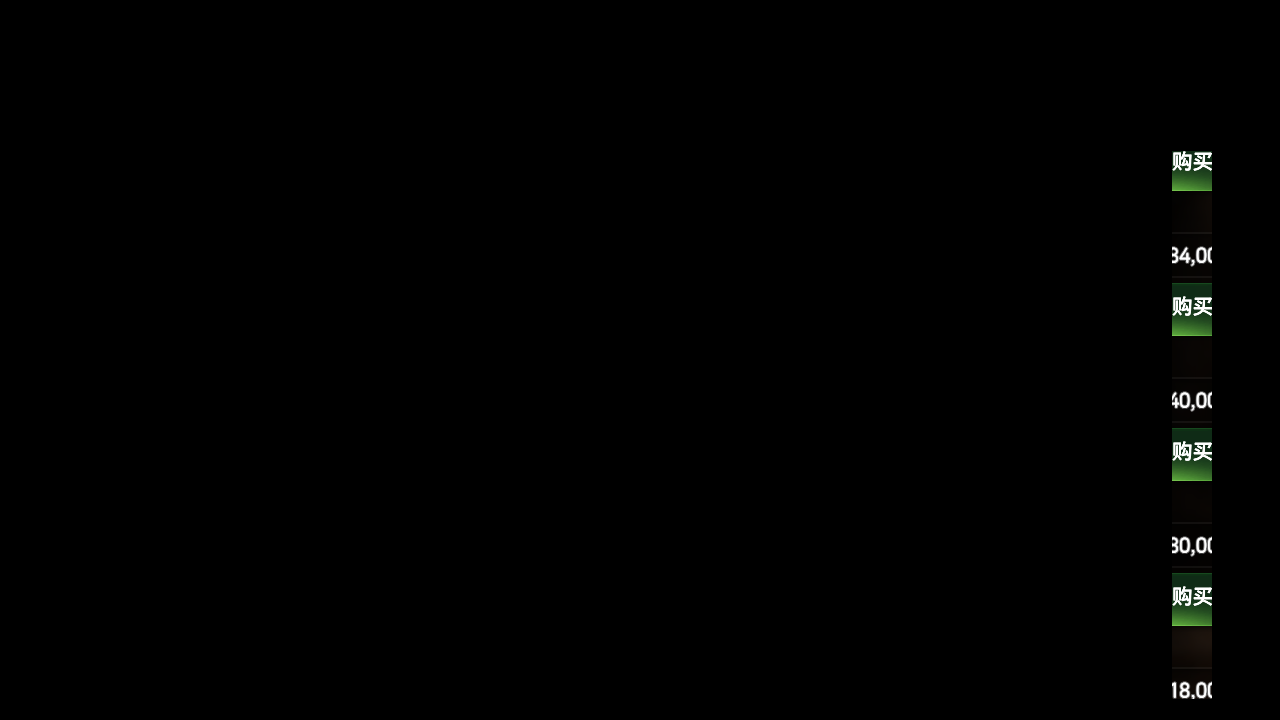
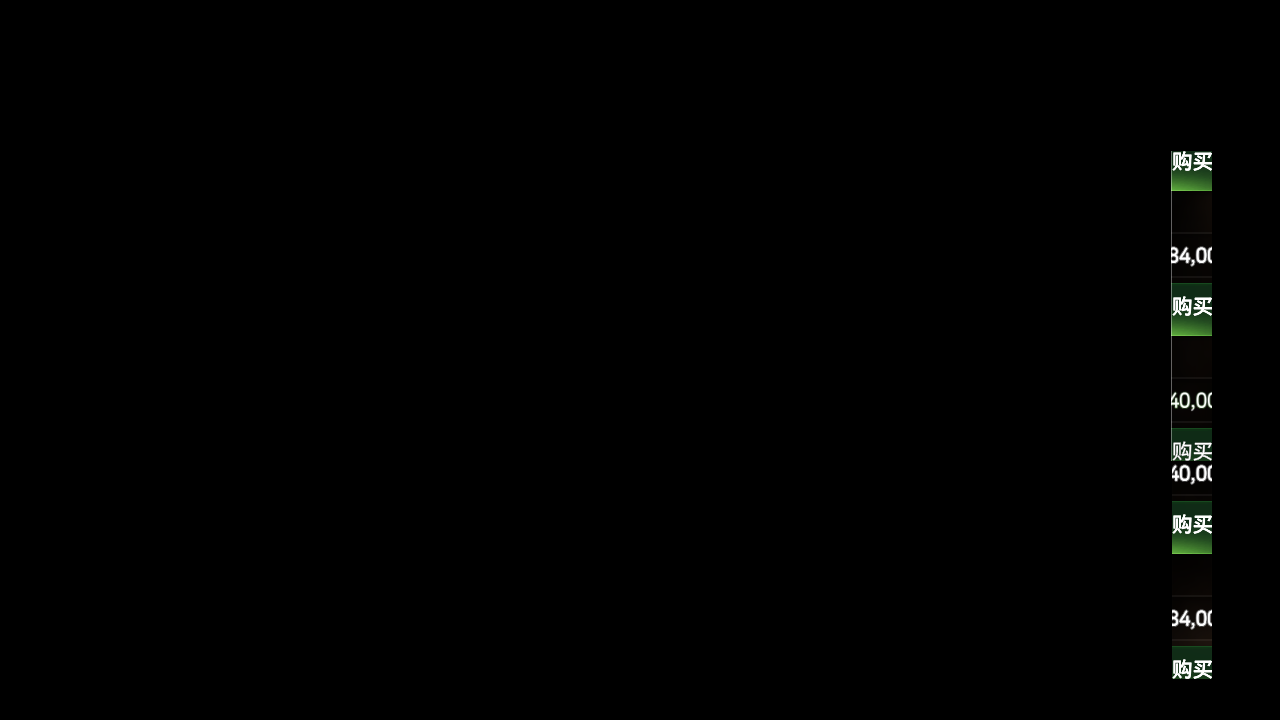
Upd: improve the stability

Changed region(s): [[0.9062, 0.6111, 0.9688, 0.9778], [0.9062, 0.55, 0.9375, 0.5806]]

diff --git a/tasks/secret_shop/secret_shop.py b/tasks/secret_shop/secret_shop.py
@@ -5,9 +5,14 @@
     - 自动刷新秘密商店
     - 识别圣约书签和神秘奖牌
     - 自动购买并处理确认弹窗
-    - 支持金币/水晶不足检测
+    - 滚动列表查看所有商品
     - 统计购买数量
+
+Pages:
+    in: page_secret_shop
+    out: page_secret_shop
 """
+from module.base.button import ClickButton
 from module.base.base import ModuleBase
 from module.base.timer import Timer
 from module.logger import logger
@@ -22,8 +27,14 @@ from tasks.secret_shop.assets.assets_secret_shop import (
 )
 
 
-class SecretShopRefresh(ModuleBase):
-    """秘密商店刷书签"""
+class SecretShop(ModuleBase):
+    """
+    秘密商店刷书签
+
+    """
+
+    # 滚动参数
+    SCROLL_AREA = (960, 550, 960, 360)
 
     def __init__(self, config, device):
         super().__init__(config, device)
@@ -35,152 +46,249 @@ class SecretShopRefresh(ModuleBase):
         self.max_refresh = getattr(config, 'SecretShop_MaxRefresh', 100)
         self.buy_covenant = getattr(config, 'SecretShop_BuyCovenantBookmark', True)
         self.buy_mystic = getattr(config, 'SecretShop_BuyMysticMedal', True)
+        # 状态
+        self._pending_buy: list[ClickButton] = []
+        self._scrolled = False
+        self._current_round_bought = 0
+        # 当前刷新周期内是否已购买（每次刷新最多各出现一个）
+        self._covenant_purchased_this_round = False
+        self._mystic_purchased_this_round = False
 
-    def find_and_buy_bookmarks(self) -> int:
+    def _find_target_buy_buttons(self) -> list[tuple[str, ClickButton]]:
         """
-        在当前页面查找并购买书签
+        查找当前页面中目标物品对应的购买按钮
 
         Returns:
-            int: 本次购买的数量
+            list[tuple[str, ClickButton]]: [(item_type, buy_button), ...]
         """
-        bought = 0
         image = self.device.image
+        result = []
 
-        # 查找目标物品
-        items = []
-        if self.buy_covenant:
-            bookmarks = COVENANT_BOOKMARK.match_multi_template(image)
-            for b in bookmarks:
-                items.append(('covenant', b))
-        if self.buy_mystic:
-            medals = MYSTIC_MEDAL.match_multi_template(image)
-            for m in medals:
-                items.append(('mystic', m))
-
-        if not items:
-            logger.info('当前页面没有找到书签或奖牌')
-            return 0
-
-        # 查找购买按钮
+        # 获取所有购买按钮
         buy_buttons = BUY.match_multi_template(image)
         if not buy_buttons:
-            logger.warning('没有找到购买按钮')
-            return 0
+            return []
 
-        # 按 Y 坐标排序
-        items.sort(key=lambda x: x[1].area[1])
-        buy_buttons.sort(key=lambda x: x.area[1])
+        # 查找目标物品（跳过本轮已购买的类型）
+        targets = []
+        if self.buy_covenant and not self._covenant_purchased_this_round:
+            for item in COVENANT_BOOKMARK.match_multi_template(image):
+                targets.append(('covenant', item))
+        if self.buy_mystic and not self._mystic_purchased_this_round:
+            for item in MYSTIC_MEDAL.match_multi_template(image):
+                targets.append(('mystic', item))
 
-        # Y 坐标配对并购买
-        for item_type, item in items:
-            item_y_center = (item.area[1] + item.area[3]) / 2
+        if not targets:
+            return []
+
+        # 按 Y 坐标匹配物品和购买按钮
+        for item_type, item in targets:
+            item_y = (item.area[1] + item.area[3]) / 2
 
             for buy_btn in buy_buttons:
-                buy_y_center = (buy_btn.area[1] + buy_btn.area[3]) / 2
+                buy_y = (buy_btn.area[1] + buy_btn.area[3]) / 2
 
-                # Y 中心点距离在 30 像素内认为是同一行
-                if abs(item_y_center - buy_y_center) < 30:
-                    logger.info(f'找到 {item_type}: Y={item_y_center:.0f}')
-
-                    # 点击购买
-                    self.device.click(buy_btn)
-                    self.device.sleep(0.5)
-
-                    # 处理购买确认
-                    if self._handle_buy_confirm():
-                        bought += 1
-                        if item_type == 'covenant':
-                            self.covenant_bought += 1
-                            logger.info(f'购买圣约书签成功 (累计: {self.covenant_bought})')
-                        else:
-                            self.mystic_bought += 1
-                            logger.info(f'购买神秘奖牌成功 (累计: {self.mystic_bought})')
-
-                        # 购买后需要重新截图
-                        self.device.screenshot()
+                # Y 中心点距离在 50 像素内认为是同一行
+                if abs(item_y - buy_y) < 50:
+                    result.append((item_type, buy_btn))
                     break
 
-        return bought
+        return result
 
-    def _handle_buy_confirm(self) -> bool:
+    def _handle_buy_confirm(self, skip_first_screenshot=True) -> bool:
         """
         处理购买确认弹窗
 
+        Args:
+            skip_first_screenshot: 是否跳过第一次截图
+
         Returns:
             bool: 是否购买成功
+
+        Pages:
+            in: any
+            out: page_secret_shop
         """
-        timeout = Timer(3).start()
-        while not timeout.reached():
-            self.device.screenshot()
+        timeout = Timer(3, count=6).start()
+        confirm_timer = Timer(0.5, count=2)
+        seen_confirm = False
 
-            # 确认购买
-            if self.appear_then_click(BUY_CONFIRM, interval=0.5):
-                self.device.sleep(0.5)
-                return True
+        while 1:
+            if skip_first_screenshot:
+                skip_first_screenshot = False
+            else:
+                self.device.screenshot()
 
-            # TODO: 检测金币/水晶不足的弹窗
-            # if self.appear(INSUFFICIENT_GOLD):
-            #     logger.warning('金币不足')
-            #     self.appear_then_click(POPUP_CANCEL)
-            #     return False
+            # 超时退出
+            if timeout.reached():
+                logger.warning('购买确认超时')
+                return False
 
-        logger.warning('购买确认超时')
+            # 点击确认购买
+            if self.appear_then_click(BUY_CONFIRM, interval=0.3):
+                seen_confirm = True
+                confirm_timer.reset()
+                continue
+
+            # 必须曾经看到过弹窗，且弹窗已消失
+            if seen_confirm and not self.appear(BUY_CONFIRM):
+                if confirm_timer.reached():
+                    return True
+
         return False
 
-    def refresh_shop(self) -> bool:
+    def _handle_refresh_confirm(self, skip_first_screenshot=True) -> bool:
         """
-        刷新商店
+        处理刷新确认弹窗
+
+        Args:
+            skip_first_screenshot: 是否跳过第一次截图
 
         Returns:
             bool: 是否刷新成功
-        """
-        logger.info('刷新商店')
 
-        # 点击刷新
-        self.device.screenshot()
-        if not self.appear_then_click(REFRESH, interval=0.5):
-            logger.warning('没有找到刷新按钮')
+        Pages:
+            in: any
+            out: page_secret_shop
+        """
+        timeout = Timer(3, count=6).start()
+        confirm_timer = Timer(0.5, count=2)
+
+        while 1:
+            if skip_first_screenshot:
+                skip_first_screenshot = False
+            else:
+                self.device.screenshot()
+
+            # 超时退出
+            if timeout.reached():
+                logger.warning('刷新确认超时')
+                return False
+
+            # 点击确认刷新
+            if self.appear_then_click(REFRESH_CONFIRM, interval=0.3):
+                confirm_timer.reset()
+                continue
+
+            # 确认弹窗消失 = 刷新完成
+            if not self.appear(REFRESH_CONFIRM):
+                if confirm_timer.reached():
+                    return True
+
+        return False
+
+    def _scroll_down(self) -> bool:
+        """
+        向下滚动一次
+
+        Returns:
+            bool: 是否执行了滚动
+        """
+        if self._scrolled:
             return False
 
-        # 等待确认弹窗
-        timeout = Timer(3).start()
-        while not timeout.reached():
-            self.device.screenshot()
-            if self.appear_then_click(REFRESH_CONFIRM, interval=0.5):
-                self.refresh_count += 1
-                logger.info(f'刷新成功 (累计: {self.refresh_count})')
-                self.device.sleep(0.8)
-                return True
-
-        logger.warning('刷新确认超时')
-        return False
+        logger.info('向下滚动')
+        self.device.swipe(
+            (self.SCROLL_AREA[0], self.SCROLL_AREA[1]),
+            (self.SCROLL_AREA[2], self.SCROLL_AREA[3]),
+            duration=(0.4, 0.6)
+        )
+        self._scrolled = True
+        return True
 
     def run(self):
         """
         主运行逻辑
+
+        Pages:
+            in: page_secret_shop
+            out: page_secret_shop
         """
         logger.hr('秘密商店刷书签', level=1)
         logger.info(f'最大刷新次数: {self.max_refresh}')
         logger.info(f'购买圣约书签: {self.buy_covenant}')
         logger.info(f'购买神秘奖牌: {self.buy_mystic}')
 
-        # TODO: 导航到秘密商店
-        # self.goto_secret_shop()
+        # 稳定性计时器
+        timeout = Timer(60, count=120).start()
+        action_timer = Timer(0.3, count=1)
+        scan_timer = Timer(0.8, count=2)
+        # TODO: computer performance needed
+        # scan_timer = Timer(0.5, count=2)
 
-        while self.refresh_count < self.max_refresh:
-            # 截图
+        while 1:
             self.device.screenshot()
 
-            # 查找并购买书签
-            self.find_and_buy_bookmarks()
-
-            # 刷新商店
-            if not self.refresh_shop():
-                logger.error('刷新失败，停止运行')
+            # 超时保护
+            if timeout.reached():
+                logger.warning('运行超时，停止')
                 break
 
-            # 防止过快
-            self.device.sleep(0.3)
+            # 达到最大刷新次数
+            if self.refresh_count >= self.max_refresh:
+                logger.info('达到最大刷新次数')
+                break
+
+            # 优先处理购买确认弹窗
+            if self.appear_then_click(BUY_CONFIRM, interval=0.3):
+                timeout.reset()
+                continue
+
+            # 处理刷新确认弹窗（不在这里计数，在点击 REFRESH 时计数）
+            if self.appear_then_click(REFRESH_CONFIRM, interval=0.3):
+                self._scrolled = False
+                self._current_round_bought = 0
+                # 重置购买标记，新一轮可以重新购买
+                self._covenant_purchased_this_round = False
+                self._mystic_purchased_this_round = False
+                timeout.reset()
+                scan_timer.reset()
+                continue
+
+            # 等待页面稳定后再扫描
+            if not scan_timer.reached():
+                continue
+
+            # 查找并购买目标物品
+            if action_timer.reached():
+                targets = self._find_target_buy_buttons()
+
+                if targets:
+                    # 购买第一个找到的目标
+                    item_type, buy_btn = targets[0]
+                    logger.info(f'找到 {item_type}: area={buy_btn.area}, button={buy_btn.button}')
+                    self.device.click(buy_btn)
+
+                    # 等待确认弹窗
+                    if self._handle_buy_confirm():
+                        self._current_round_bought += 1
+                        if item_type == 'covenant':
+                            self.covenant_bought += 1
+                            self._covenant_purchased_this_round = True
+                            logger.info(f'购买圣约书签成功 (累计: {self.covenant_bought})')
+                        else:
+                            self.mystic_bought += 1
+                            self._mystic_purchased_this_round = True
+                            logger.info(f'购买神秘奖牌成功 (累计: {self.mystic_bought})')
+
+                    timeout.reset()
+                    action_timer.reset()
+                    continue
+
+                # 当前页面没有目标，尝试滚动
+                if not self._scrolled:
+                    self._scroll_down()
+                    timeout.reset()
+                    scan_timer.reset()
+                    continue
+
+                # 已滚动且没有目标，刷新商店
+                if self.appear_then_click(REFRESH, interval=0.5):
+                    self.refresh_count += 1
+                    logger.info(f'刷新商店 (累计: {self.refresh_count})')
+                    timeout.reset()
+                    scan_timer.reset()  # 等待刷新弹窗出现，避免扫描旧画面
+                    continue
 
         # 输出统计
         logger.hr('刷书签完成', level=1)
@@ -188,5 +296,6 @@ class SecretShopRefresh(ModuleBase):
         logger.info(f'圣约书签: {self.covenant_bought}')
         logger.info(f'神秘奖牌: {self.mystic_bought}')
 
-        # TODO: 设置下次运行时间
-        # self.config.task_delay(minute=30)
+
+# 保持向后兼容
+SecretShopRefresh = SecretShop
